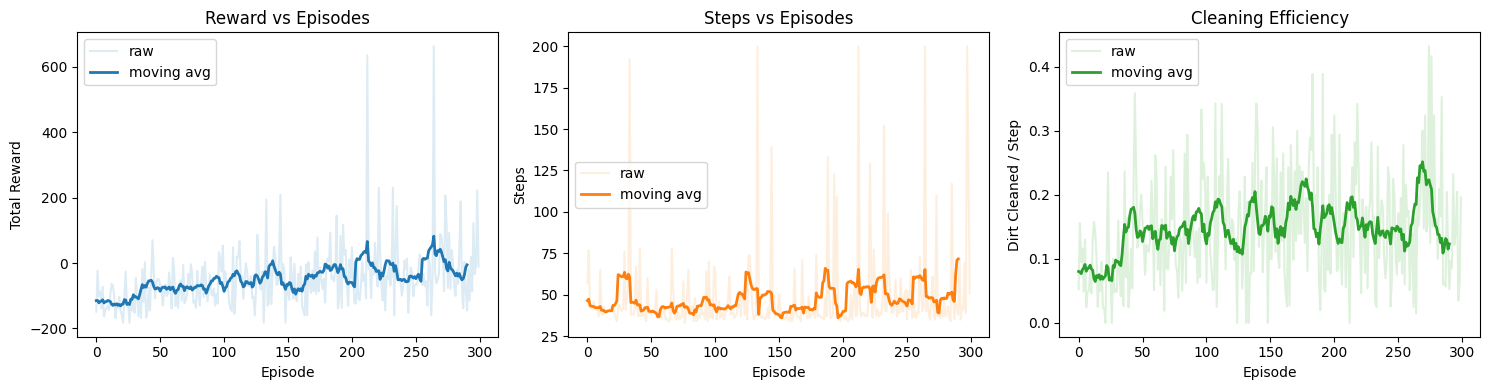
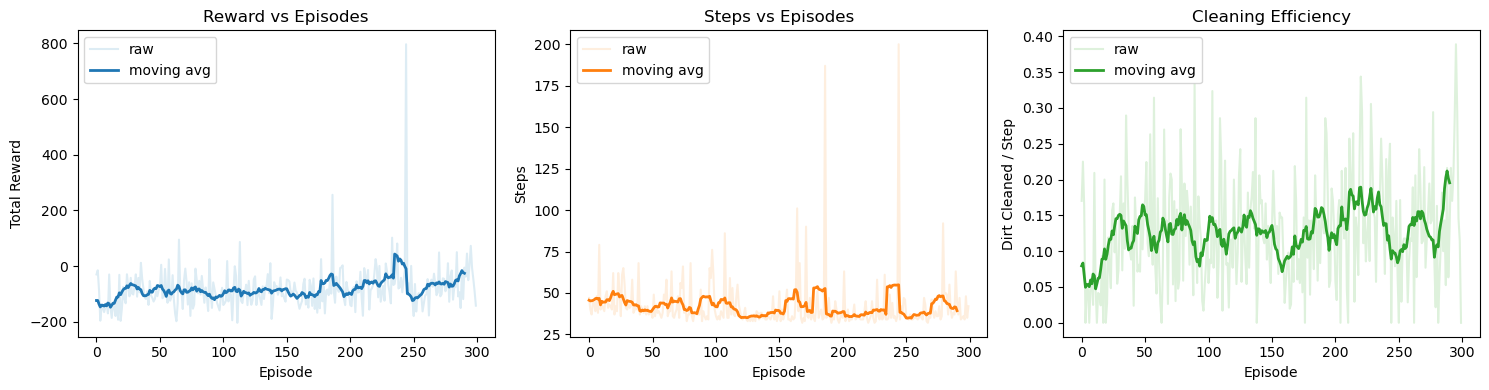
Update Q-learning state based on meaningful local features and improve demo generation

diff --git a/train.py b/train.py
@@ -9,6 +9,8 @@ from pathlib import Path
 from statistics import mean
 from typing import Dict, List, Tuple
 
+import numpy as np
+
 from agent import FuzzyRuleBasedAgent, HybridVacuumAgent, QLearningVacuumAgent
 from config import ProjectConfig
 from environment import VacuumEnvironment
@@ -20,8 +22,14 @@ def build_logger() -> logging.Logger:
     return logging.getLogger("vacuum_rl")
 
 
-def run_episode(env: VacuumEnvironment, agent, training: bool = True, capture: bool = False):
-    observation = env.reset()
+def run_episode(
+    env: VacuumEnvironment,
+    agent,
+    training: bool = True,
+    capture: bool = False,
+    seed: int | None = None,
+):
+    observation = env.reset(seed=seed)
     done = False
     total_reward = 0.0
     frames = [env.render_matrix()] if capture else []
@@ -57,10 +65,18 @@ def run_episode(env: VacuumEnvironment, agent, training: bool = True, capture: b
     return metrics, frames, frame_stats
 
 
-def train_agent(agent, env: VacuumEnvironment, episodes: int, logger: logging.Logger, log_interval: int):
+def train_agent(
+    agent,
+    env: VacuumEnvironment,
+    episodes: int,
+    logger: logging.Logger,
+    log_interval: int,
+    episode_seeds: List[int] | None = None,
+):
     history = {"rewards": [], "steps": [], "efficiency": []}
     for episode in range(1, episodes + 1):
-        metrics, _, _ = run_episode(env, agent, training=True, capture=False)
+        seed = None if episode_seeds is None else episode_seeds[episode - 1]
+        metrics, _, _ = run_episode(env, agent, training=True, capture=False, seed=seed)
         history["rewards"].append(metrics["reward"])
         history["steps"].append(metrics["steps"])
         history["efficiency"].append(metrics["efficiency"])
@@ -78,13 +94,19 @@ def train_agent(agent, env: VacuumEnvironment, episodes: int, logger: logging.Lo
     return history
 
 
-def evaluate_agent(agent, env: VacuumEnvironment, episodes: int) -> Dict[str, float]:
+def evaluate_agent(
+    agent,
+    env: VacuumEnvironment,
+    episodes: int,
+    episode_seeds: List[int] | None = None,
+) -> Dict[str, float]:
     rewards: List[float] = []
     steps: List[int] = []
     efficiencies: List[float] = []
     dirt_remaining: List[int] = []
-    for _ in range(episodes):
-        metrics, _, _ = run_episode(env, agent, training=False, capture=False)
+    for episode_idx in range(episodes):
+        seed = None if episode_seeds is None else episode_seeds[episode_idx]
+        metrics, _, _ = run_episode(env, agent, training=False, capture=False, seed=seed)
         rewards.append(metrics["reward"])
         steps.append(metrics["steps"])
         efficiencies.append(metrics["efficiency"])
@@ -99,31 +121,59 @@ def evaluate_agent(agent, env: VacuumEnvironment, episodes: int) -> Dict[str, fl
 
 
 def compare_agents(config: ProjectConfig, logger: logging.Logger, output_dir: Path):
-    env = VacuumEnvironment(config.environment)
+    rng = np.random.default_rng(config.environment.seed)
+    train_seeds = [int(seed) for seed in rng.integers(0, 1_000_000, size=config.training.episodes)]
+    eval_seeds = [
+        int(seed) for seed in rng.integers(0, 1_000_000, size=config.training.evaluation_episodes)
+    ]
+
     rl_agent = QLearningVacuumAgent(config.training)
     hybrid_agent = HybridVacuumAgent(config.training, config.fuzzy)
     fuzzy_agent = FuzzyRuleBasedAgent()
 
     logger.info("Training pure RL agent")
     rl_history = train_agent(
-        rl_agent, env, config.training.episodes, logger, config.training.log_interval
+        rl_agent,
+        VacuumEnvironment(config.environment),
+        config.training.episodes,
+        logger,
+        config.training.log_interval,
+        episode_seeds=train_seeds,
     )
     plot_training_metrics(rl_history, output_dir / "pure_rl")
     rl_agent.save(output_dir / "pure_rl" / "q_table.pkl")
 
     logger.info("Training hybrid RL + fuzzy agent")
     hybrid_history = train_agent(
-        hybrid_agent, env, config.training.episodes, logger, config.training.log_interval
+        hybrid_agent,
+        VacuumEnvironment(config.environment),
+        config.training.episodes,
+        logger,
+        config.training.log_interval,
+        episode_seeds=train_seeds,
     )
     plot_training_metrics(hybrid_history, output_dir / "hybrid_rl_fuzzy")
     hybrid_agent.save(output_dir / "hybrid_rl_fuzzy" / "q_table.pkl")
 
     logger.info("Evaluating all agents")
     comparison = {
-        "pure_rl": evaluate_agent(rl_agent, env, config.training.evaluation_episodes),
-        "fuzzy_only": evaluate_agent(fuzzy_agent, env, config.training.evaluation_episodes),
+        "pure_rl": evaluate_agent(
+            rl_agent,
+            VacuumEnvironment(config.environment),
+            config.training.evaluation_episodes,
+            episode_seeds=eval_seeds,
+        ),
+        "fuzzy_only": evaluate_agent(
+            fuzzy_agent,
+            VacuumEnvironment(config.environment),
+            config.training.evaluation_episodes,
+            episode_seeds=eval_seeds,
+        ),
         "hybrid_rl_fuzzy": evaluate_agent(
-            hybrid_agent, env, config.training.evaluation_episodes
+            hybrid_agent,
+            VacuumEnvironment(config.environment),
+            config.training.evaluation_episodes,
+            episode_seeds=eval_seeds,
         ),
     }
 
@@ -134,7 +184,6 @@ def compare_agents(config: ProjectConfig, logger: logging.Logger, output_dir: Pa
 
 
 def demo_agent(agent_name: str, config: ProjectConfig, output_dir: Path, save_animation: bool = False):
-    env = VacuumEnvironment(config.environment)
     agents = {
         "pure_rl": QLearningVacuumAgent(config.training),
         "fuzzy_only": FuzzyRuleBasedAgent(),
@@ -146,7 +195,22 @@ def demo_agent(agent_name: str, config: ProjectConfig, output_dir: Path, save_an
     if hasattr(agent, "load") and model_path.exists():
         agent.load(model_path)
 
-    metrics, frames, frame_stats = run_episode(env, agent, training=False, capture=True)
+    rng = np.random.default_rng(config.environment.seed + 10_000)
+    best_rollout: Tuple[Dict[str, float], List, List] | None = None
+    best_score = float("-inf")
+    for _ in range(5):
+        env = VacuumEnvironment(config.environment)
+        seed = int(rng.integers(0, 1_000_000))
+        metrics, frames, frame_stats = run_episode(
+            env, agent, training=False, capture=True, seed=seed
+        )
+        score = metrics["reward"] + (metrics["efficiency"] * 100.0) - metrics["dirt_remaining"] * 2.0
+        if score > best_score:
+            best_rollout = (metrics, frames, frame_stats)
+            best_score = score
+
+    assert best_rollout is not None
+    metrics, frames, frame_stats = best_rollout
     animation_path = None
     if save_animation:
         animation_path = output_dir / f"{agent_name}_demo.gif"

diff --git a/environment.py b/environment.py
@@ -45,6 +45,7 @@ class VacuumEnvironment:
         self.dirt = np.zeros((self.height, self.width), dtype=np.int8)
         self.obstacles = np.zeros((self.height, self.width), dtype=bool)
         self.cleaned_total = 0
+        self.visit_counts = np.zeros((self.height, self.width), dtype=np.int16)
 
     def reset(self, seed: int | None = None) -> Dict:
         if seed is not None:
@@ -55,6 +56,7 @@ class VacuumEnvironment:
         self.cleaned_total = 0
         self.obstacles.fill(False)
         self.dirt.fill(0)
+        self.visit_counts.fill(0)
 
         self.charger_pos = self._random_empty_cell()
         self.agent_pos = self.charger_pos
@@ -65,6 +67,7 @@ class VacuumEnvironment:
         self._place_random_obstacles(obstacle_count)
         self._place_random_dirt(dirt_count)
         self.total_initial_dirt = int(self.dirt.sum())
+        self.visit_counts[self.agent_pos] = 1
         return self.get_observation()
 
     def _random_empty_cell(self) -> Tuple[int, int]:
@@ -128,22 +131,44 @@ class VacuumEnvironment:
             "valid_actions": self.get_valid_actions(),
         }
 
-    def get_state_key(self, battery_buckets: int = 5) -> Tuple[int, int, int, int, int, int]:
+    def get_state_key(self, battery_buckets: int = 5) -> Tuple[int, ...]:
         obs = self.get_observation()
         battery_bucket = min(
             battery_buckets - 1,
             int(obs["battery"] / max(1, self.config.battery_capacity / battery_buckets)),
         )
         visible_dirt_level = int(obs["visible_dirt"].sum())
-        visible_bucket = min(4, visible_dirt_level // 2)
-        charger_bucket = min(3, obs["distance_to_charger"] // 3)
+        visible_bucket = min(5, visible_dirt_level // 3)
+        charger_bucket = min(4, obs["distance_to_charger"] // 2)
+        x, y = obs["position"]
+        charger_dx = self._direction_bucket(obs["charger_position"][0] - x)
+        charger_dy = self._direction_bucket(obs["charger_position"][1] - y)
+        visible_target = self.nearest_visible_dirt_position()
+        dirt_seen = 0 if visible_target is None else 1
+        dirt_distance_bucket = 4
+        dirt_dx = 1
+        dirt_dy = 1
+        if visible_target is not None:
+            dirt_distance = abs(visible_target[0] - x) + abs(visible_target[1] - y)
+            dirt_distance_bucket = min(4, dirt_distance)
+            dirt_dx = self._direction_bucket(visible_target[0] - x)
+            dirt_dy = self._direction_bucket(visible_target[1] - y)
+        local_visit_bucket = min(3, max(0, int(self.visit_counts[x, y]) - 1))
+        blocked_mask = tuple(0 if action in obs["valid_actions"] else 1 for action in ("up", "down", "left", "right"))
         return (
-            obs["position"][0],
-            obs["position"][1],
             obs["current_dirt"],
             battery_bucket,
             visible_bucket,
             charger_bucket,
+            charger_dx,
+            charger_dy,
+            dirt_seen,
+            dirt_distance_bucket,
+            dirt_dx,
+            dirt_dy,
+            local_visit_bucket,
+            int(obs["position"] == obs["charger_position"]),
+            *blocked_mask,
         )
 
     def step(self, action: str) -> StepResult:
@@ -195,7 +220,9 @@ class VacuumEnvironment:
         if self.obstacles[nx, ny]:
             return -10
         self.agent_pos = (nx, ny)
-        return -1
+        self.visit_counts[self.agent_pos] += 1
+        revisit_penalty = min(2.5, max(0, self.visit_counts[self.agent_pos] - 2) * 0.35)
+        return -1 - revisit_penalty
 
     def _clean(self) -> float:
         x, y = self.agent_pos
@@ -242,3 +269,34 @@ class VacuumEnvironment:
         if self.steps == 0:
             return 0.0
         return self.cleaned_total / self.steps
+
+    def nearest_visible_dirt_position(self) -> Tuple[int, int] | None:
+        obs = self.get_observation()
+        visible_dirt = obs["visible_dirt"]
+        x, y = obs["position"]
+        radius = self.config.visibility_radius
+        best = None
+        best_score = float("-inf")
+        for i in range(visible_dirt.shape[0]):
+            for j in range(visible_dirt.shape[1]):
+                dirt_level = int(visible_dirt[i, j])
+                if dirt_level <= 0:
+                    continue
+                wx = x - radius + i
+                wy = y - radius + j
+                if not (0 <= wx < self.height and 0 <= wy < self.width):
+                    continue
+                distance = abs(wx - x) + abs(wy - y)
+                score = dirt_level * 10 - distance
+                if score > best_score:
+                    best = (wx, wy)
+                    best_score = score
+        return best
+
+    @staticmethod
+    def _direction_bucket(delta: int) -> int:
+        if delta < 0:
+            return 0
+        if delta > 0:
+            return 2
+        return 1

diff --git a/agent.py b/agent.py
@@ -118,38 +118,36 @@ class FuzzyRuleBasedAgent(BaseVacuumAgent):
 
         target = obs["charger_position"] if prefer_charger else self._nearest_visible_dirt(env)
         if target is None:
-            return valid_actions[np.random.randint(len(valid_actions))]
+            return self._least_visited_move(env, valid_actions)
 
         best_action = valid_actions[0]
-        best_distance = float("inf")
+        best_score = float("-inf")
         for action in valid_actions:
             dx, dy = MOVES[action]
             nx, ny = obs["position"][0] + dx, obs["position"][1] + dy
             distance = abs(nx - target[0]) + abs(ny - target[1])
-            if distance < best_distance:
-                best_distance = distance
+            novelty_bonus = 1.0 / (1.0 + float(env.visit_counts[nx, ny]))
+            score = -distance + novelty_bonus
+            if score > best_score:
+                best_score = score
                 best_action = action
         return best_action
 
     def _nearest_visible_dirt(self, env: VacuumEnvironment):
+        return env.nearest_visible_dirt_position()
+
+    def _least_visited_move(self, env: VacuumEnvironment, valid_actions: List[str]) -> str:
         obs = env.get_observation()
-        vx = obs["visible_dirt"]
-        pos = obs["position"]
-        radius = env.config.visibility_radius
-        best = None
-        best_distance = float("inf")
-        for i in range(vx.shape[0]):
-            for j in range(vx.shape[1]):
-                if vx[i, j] <= 0:
-                    continue
-                wx = pos[0] - radius + i
-                wy = pos[1] - radius + j
-                if 0 <= wx < env.height and 0 <= wy < env.width:
-                    distance = abs(wx - pos[0]) + abs(wy - pos[1])
-                    if distance < best_distance:
-                        best = (wx, wy)
-                        best_distance = distance
-        return best
+        best_action = valid_actions[0]
+        best_score = float("-inf")
+        for action in valid_actions:
+            dx, dy = MOVES[action]
+            nx, ny = obs["position"][0] + dx, obs["position"][1] + dy
+            score = -float(env.visit_counts[nx, ny]) + np.random.random() * 0.01
+            if score > best_score:
+                best_score = score
+                best_action = action
+        return best_action
 
 
 class HybridVacuumAgent(QLearningVacuumAgent):
@@ -204,20 +202,32 @@ class HybridVacuumAgent(QLearningVacuumAgent):
         mode_scores = self.controller.infer(
             obs["current_dirt"], obs["battery"], obs["distance_to_charger"]
         )
-        scores = {action: 0.05 for action in ACTIONS}
-        scores["clean"] += mode_scores["clean"]
-        scores["recharge"] += mode_scores["recharge"]
+        scores = {action: 0.02 for action in ACTIONS}
+        scores["clean"] += mode_scores["clean"] * (1.2 if obs["current_dirt"] > 0 else 0.2)
+        scores["recharge"] += mode_scores["recharge"] * (
+            1.3 if obs["position"] == obs["charger_position"] else 0.6
+        )
 
         if obs["battery"] < 30:
-            charger_moves = self._moves_towards_target(obs["position"], obs["charger_position"], obs["valid_actions"])
+            charger_moves = self._moves_towards_target(
+                obs["position"], obs["charger_position"], obs["valid_actions"]
+            )
             for action in charger_moves:
-                scores[action] += mode_scores["move"]
+                scores[action] += mode_scores["move"] + mode_scores["recharge"] * 0.5
         else:
             dirt_target = self._visible_dirt_target(env)
             if dirt_target is not None:
-                dirt_moves = self._moves_towards_target(obs["position"], dirt_target, obs["valid_actions"])
+                dirt_moves = self._moves_towards_target(
+                    obs["position"], dirt_target, obs["valid_actions"]
+                )
                 for action in dirt_moves:
-                    scores[action] += mode_scores["move"]
+                    scores[action] += mode_scores["move"] + mode_scores["clean"] * 0.35
+
+        for action in [candidate for candidate in obs["valid_actions"] if candidate in MOVE_ACTIONS]:
+            dx, dy = MOVES[action]
+            nx, ny = obs["position"][0] + dx, obs["position"][1] + dy
+            novelty_bonus = 1.0 / (1.0 + float(env.visit_counts[nx, ny]))
+            scores[action] += 0.25 * novelty_bonus
 
         total = sum(scores[action] for action in obs["valid_actions"])
         if total <= 0:
@@ -225,7 +235,7 @@ class HybridVacuumAgent(QLearningVacuumAgent):
         return {action: scores[action] / total for action in obs["valid_actions"]}
 
     def _visible_dirt_target(self, env: VacuumEnvironment):
-        return FuzzyRuleBasedAgent()._nearest_visible_dirt(env)
+        return env.nearest_visible_dirt_position()
 
     def _moves_towards_target(self, position, target, valid_actions: List[str]) -> List[str]:
         current_distance = abs(position[0] - target[0]) + abs(position[1] - target[1])